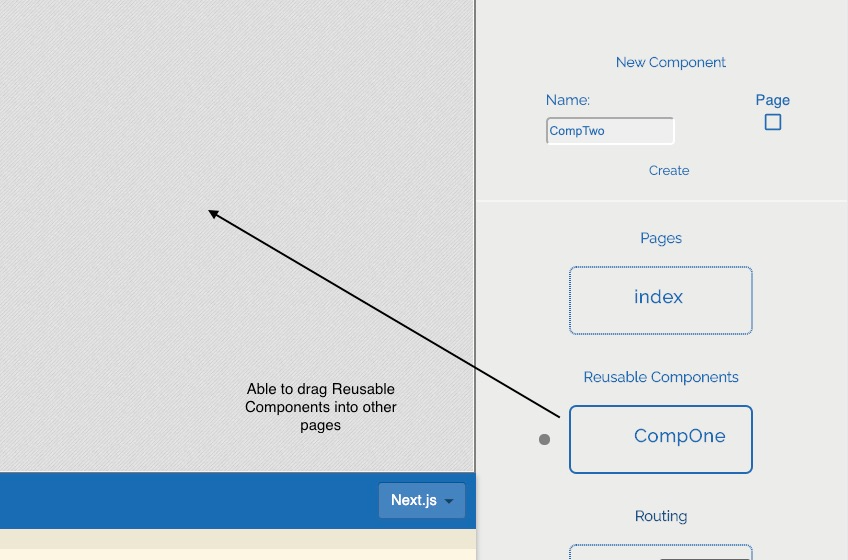
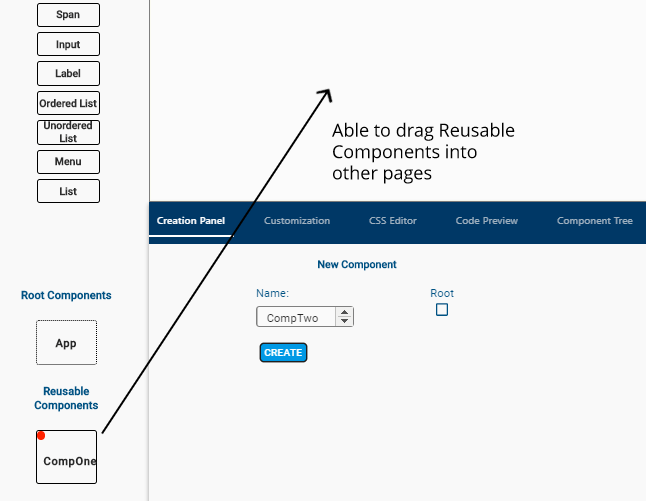
Portion of the Tutorial Updates. Added comments. Fixed side scroll of reusable components. Restored focus feature.

diff --git a/app/src/tutorial/ReusableComponents.tsx b/app/src/tutorial/ReusableComponents.tsx
@@ -12,12 +12,12 @@ const ReusableComponents: React.FC<{
     <div className={classes.wrapper}>
       <h1 className={classes.title}>Reusable Components</h1>
       <hr/>
-      <p className={classes.text}>To add a Reusable Component, use the top right input form to name a Component. Leave the Root/Page checkbox unchecked. Then select add to create a new Reusable Component.</p>
+      <p className={classes.text}>To add a Reusable Component, use the New Component input form in the Creation Panel to name a Component. Leave the Root/Page checkbox unchecked. Then click Create to add a new Reusable Component.</p>
       <div className={classes.imgWrapper}>
         <img className={classes.img} src={reusableComponents1} />
       </div>
       <hr/>
-      <p className={classes.text}>The Components you create will populate the right container under the section 'Reusable Components'.</p>
+      <p className={classes.text}>The Components you create will populate on the left panel under the section 'Reusable Components'.</p>
       <div className={classes.imgWrapper}>
         <img className={classes.img} src={reusableComponents2} />
       </div>
@@ -28,7 +28,7 @@ const ReusableComponents: React.FC<{
       <div className={classes.imgWrapper}>
         <img className={classes.img} src={reusableComponents3} />
       </div>
-      <p className={classes.text}>You can place a reusable component inside <span className={classes.notLink} onClick={() => setPage('Pages')} >Pages</span> and populate the component itself with the <span className={classes.notLink} onClick={() => setPage('HTML_Elements')} >HTML Elements</span>.</p>
+      <p className={classes.text}>You can place a reusable component inside <span className={classes.notLink} onClick={() => setPage('Pages')} >Pages</span> and populate the component itself with other <span className={classes.notLink} onClick={() => setPage('HTML_Elements')} >HTML Elements</span>.</p>
       <hr/>
     </div>
   );

diff --git a/app/src/helperFunctions/generateCode.ts b/app/src/helperFunctions/generateCode.ts
@@ -98,18 +98,20 @@ const generateUnformattedCode = (
     return customizationDetails;
   };
 
-  // function to dynamically generate a complete html (& also other library type) elements
+  // function to fix the spacing of the ace editor for new lines of added content. This was breaking on nested components, leaving everything right justified.
   const tabSpacer = (level: number) => {
     let tabs = ''
     for (let i = 0; i < level; i++) tabs += '  ';
     return tabs;
   }
-
+  
+  // function to dynamically generate the appropriate levels for the code preview
   const levelSpacer = (level: number, spaces: number) => {
     if (level === 2 ) return `\n${tabSpacer(spaces)}`;
     else return ''
   }
-
+  
+  // function to dynamically generate a complete html (& also other library type) elements
   const elementGenerator = (childElement: object, level: number = 2) => {
     let innerText = '';
     let activeLink = '';
@@ -162,7 +164,8 @@ const generateUnformattedCode = (
       .filter(element => !!element)
       .join('')}`;
   };
-    
+  
+  // function to properly incorporate the user created state that is stored in the application state
   const writeStateProps = (stateArray: any) => {
     let stateToRender = '';
     for (const element of stateArray) {
@@ -211,7 +214,7 @@ const generateUnformattedCode = (
     }
       ${
         stateful && !classBased
-          ? `const [value, setValue] = useState<any | undefined>("INITIAL VALUE");${writeStateProps(currentComponent.useStateCodes)};
+          ? `const [value, setValue] = useState<any | undefined>("INITIAL VALUE")${writeStateProps(currentComponent.useStateCodes)};
           `
           : ``
       }

diff --git a/app/src/components/right/ComponentPanelItem.tsx b/app/src/components/right/ComponentPanelItem.tsx
@@ -4,6 +4,7 @@ import { makeStyles } from '@material-ui/core/styles';
 import StateContext from '../../context/context';
 import { useDrag } from 'react-dnd';
 import { ItemTypes } from '../../constants/ItemTypes';
+import { wrap } from 'module';
 
 /*
 DESCRIPTION: This component is each box beneath the 'root components' and
@@ -71,6 +72,7 @@ const ComponentPanelItem: React.FC<{
       ref={drag}
       xs={8}
       style={{
+        display: 'grid',
         color: '#262626',
         backgroundColor: 'transparent',
         border: root
@@ -78,10 +80,11 @@ const ComponentPanelItem: React.FC<{
           : '2px solid #186BB4',
         borderRadius: '4px',
         borderColor: '#000000',
+        margin: '5px 0px'
       }}
     >
+      {isFocus && <div className={classes.focusMark}></div>}  
       <div className="compPanelItem" onClick={handleClick}>
-        {isFocus && <div className={classes.focusMark}></div>}
         <h3 >{name}</h3>
       </div>
     </Grid>
@@ -93,13 +96,11 @@ const useStyles = makeStyles({
     backgroundColor: 'rgba(1,212,109,0.3)'
   },
   focusMark: {
-    backgroundColor: '#808080',
-    position: 'absolute',
+    backgroundColor: 'red',
+    justifySelf: 'left',
     width: '12px',
     height: '12px',
-    borderRadius: '12px',
-    left: '-35px',
-    top: '30px'
+    borderRadius: '25px',
   }
 });
 

diff --git a/app/src/components/main/DemoRender.tsx b/app/src/components/main/DemoRender.tsx
@@ -7,6 +7,8 @@ import Box from '@material-ui/core/Box';
 import StateContext from '../../context/context';
 import cssRefresher from '../../helperFunctions/cssRefresh';
 
+// DemoRender is the full sandbox demo of our user's custom built React components. DemoRender references the design specifications stored in state to construct
+// real react components that utilize hot module reloading to depict the user's prototype application.
 const DemoRender = (props): JSX.Element => {
   const [components, setComponents] = useState([]);
   const [state, dispatch] = useContext(StateContext);
@@ -16,7 +18,9 @@ const DemoRender = (props): JSX.Element => {
     border: '2px Solid grey',
   };
 
-  const componentBuilder = (array, key = 0) => {
+  // This function is the heart of DemoRender it will take the array of components stored in state and dynamically construct the desired React component for the live demo
+  // Material UI is utilized to incorporate the apporpriate tags with specific configuration designs as necessitated by HTML standards.
+  const componentBuilder = (array: object, key: number = 0) => {
     const componentsToRender = [];
     for (const element of array) {
       if (element.name !== 'separator') {

diff --git a/app/src/components/left/DragDropPanel.tsx b/app/src/components/left/DragDropPanel.tsx
@@ -5,7 +5,7 @@ import HTMLItem from './HTMLItem';
 import { makeStyles } from '@material-ui/core/styles';
 
 /*
-DESCRIPTION: This is the bottom half of the left panel, starting from the 'HTML
+DESCRIPTION: This is the top half of the left panel, starting from the 'HTML
   Elements' header. The boxes containing each HTML element are rendered in
   HTMLItem, which itself is rendered by this component.
 
@@ -16,7 +16,7 @@ Central state contains all available HTML elements (stored in the HTMLTypes prop
 Hook state:
   -tag: 
 */
-
+// Extracted the drag and drop functionality from HTMLPanel to make a modular component that can hang wherever the future designers may choose.
 const DragDropPanel = (props): JSX.Element => {
   // const classes = useStyles();
   const [state, dispatch] = useContext(StateContext);

diff --git a/app/src/helperFunctions/componentNestValidation.ts b/app/src/helperFunctions/componentNestValidation.ts
@@ -1,4 +1,8 @@
-const componentNest = (children: any, nestId: Number) => {
+
+// This function is used in both DirectChildHTMLNestable and SeparatorChild to ensure that user created components do not nest within themselves.
+// To allow such nesting would be a certain paradox and locks the application.
+// This check is done right after the drag functionality resolves and releases. Nothing is done if a component is found trying to nest within itself.
+const componentNest = (children: object, nestId: Number) => {
   console.log('Made it to this point')
   let notNested = true;
   for (const element of children) {

diff --git a/app/src/components/bottom/CreationPanel.tsx b/app/src/components/bottom/CreationPanel.tsx
@@ -3,6 +3,8 @@ import ComponentPanel from '../right/ComponentPanel'
 import StatePropsPanel from '../right/StatePropsPanel'
 import HTMLPanel from '../left/HTMLPanel'
 
+// Creation panel holds all of the creation functionality of the application. ComponentPanel, HTMLPanel, and StatePropsPanel are all hanged here.
+// This allows users to create all aspects of this application in one place.
 const CreationPanel = (props): JSX.Element => {
   return (
     <div className="creation-panel" >

diff --git a/app/src/containers/CustomizationPanel.tsx b/app/src/containers/CustomizationPanel.tsx
@@ -31,7 +31,7 @@ import FormSelector from '../components/form/Selector';
 // Caret
 //import Arrow from '../components/main/Arrow';
 import { config } from 'ace-builds';
-
+// Previously named rightContainer, Renamed to Customizationpanel this now hangs on BottomTabs
 // need to pass in props to use the useHistory feature of react router
 const CustomizationPanel = ({ isThemeLight }): JSX.Element => {
   const classes = useStyles(isThemeLight);

diff --git a/app/src/public/styles/style.css b/app/src/public/styles/style.css
@@ -130,7 +130,9 @@ LEFT COLUMN
 }
 
 #CompBottomHalf{
+  flex-grow: 1;
   overflow-y: auto;
+  margin-bottom: 50%;
 }
 
 .HTMLElements {
@@ -372,10 +374,9 @@ RIGHT COLUMN
 
 .compPanelItem {
   height: 100%;
-  position: center;
+  display: flex;
   justify-content: center;
   align-content: center;
-  display: flex;
   word-wrap: break-word;
 }
 

diff --git a/app/src/components/right/ComponentPanel.tsx b/app/src/components/right/ComponentPanel.tsx
@@ -125,10 +125,6 @@ const ComponentPanel = ({isThemeLight}): JSX.Element => {
     }
   }, []);
 
-  const isFocus = (targetId: Number) => {
-    return state.canvasFocus.componentId === targetId ? true : false;
-  };
-
   return (
     <div className={classes.panelWrapper}>
       {/* Add a new component*/}
